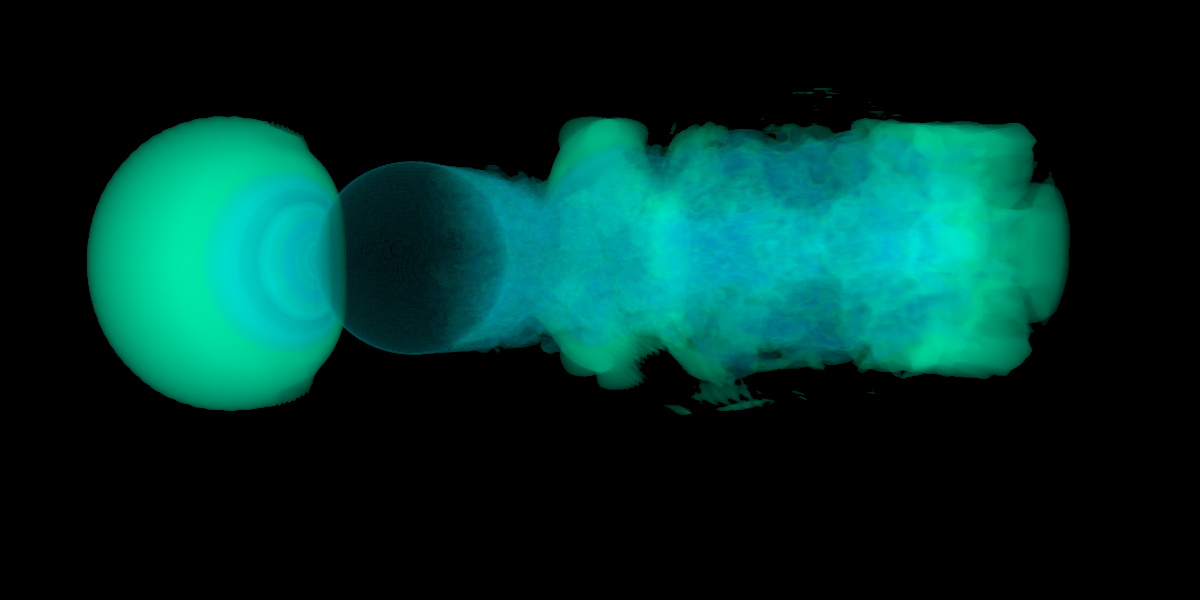
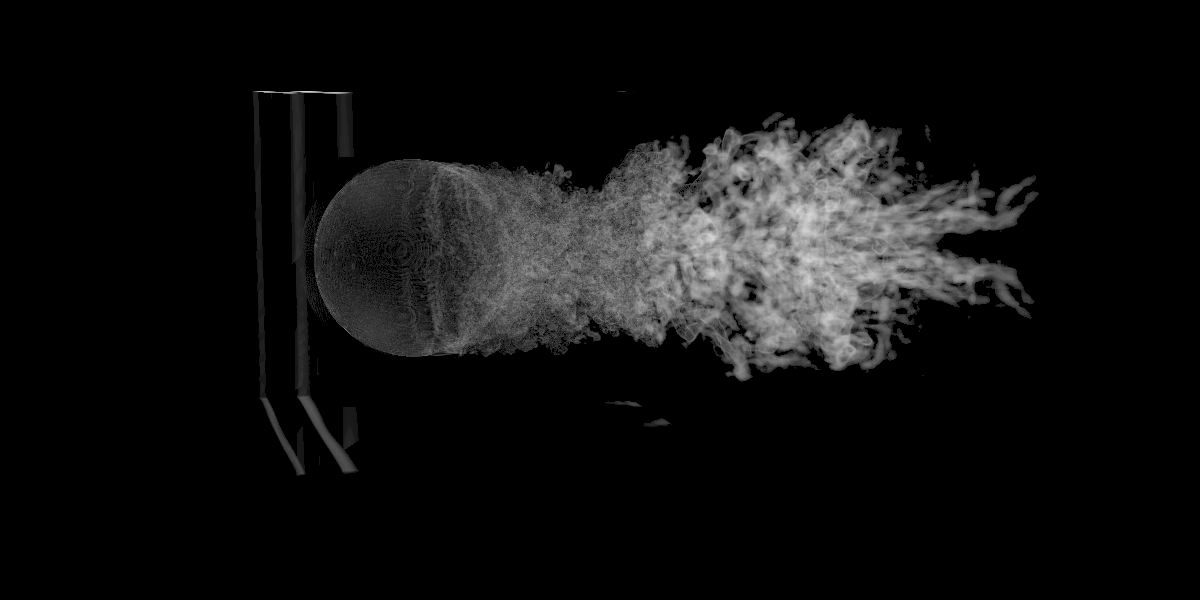
now it render turbulence

diff --git a/src/scene.cpp b/src/scene.cpp
@@ -1,4 +1,5 @@
 #include "scene.h"
+#include "utils.h"
 
 void Scene::setGrids(const std::vector<vdbGrid> &Grids) {
     grids = Grids;
@@ -60,7 +61,7 @@ int Scene::searchTree(const Vec3f pos) const {
 }
 
 template<typename T, typename GridType>
-float Scene::interpolation(const Vec3f &pos, T &res, std::vector<GridType> Grids) const {
+float Scene::interpolation(const Vec3f &pos, T &res, const std::vector<GridType> &Grids) const {
     std::vector<std::vector<Vec3i>> Corners;
     for (const auto &grid: Grids) {
         Vec3d local_pos = (grid->transform().worldToIndex(pos));
@@ -106,93 +107,112 @@ float Scene::interpolation(const Vec3f &pos, T &res, std::vector<GridType> Grids
 }
 
 float Scene::sampleOpacity(float value) {
-    float opacity = 0.5f * std::exp(-std::abs(value - 0.03f) * 100);
-    return opacity;
+//    float opacity = std::exp(-std::abs(value - 0.05f) * 100);
+//    return opacity;
+
+    float isoValue = 0.05f;
+    float margin = 0.035f;
+    if (value < isoValue + margin && value > isoValue - margin) {
+//        return 1 - std::abs(value - isoValue) / margin;
+        return std::exp(-std::abs(value - 0.05f) * 30);
+    } else {
+        return 0;
+    }
+//    else return 0.0f;
 }
 
 Vec3f Scene::sampleEmission(float value) {
-    Vec3f color = Vec3f{0, 0, 0};
-    if (value > 0.01 && value <= 0.005) {
-        color = Vec3f{
-                0,
-                1.0f * 0.5f * std::exp(-std::abs(value - 0.0025f) * 100),
-                0.33f * 0.5f * std::exp(-std::abs(value - 0.0025f) * 100)
-        };
-    } else if (value > 0.005 && value <= 0.01) {
-        color = Vec3f{
-                0,
-                0.5f * 0.5f * std::exp(-std::abs(value - 0.0075f) * 100),
-                0.66f * 0.5f * std::exp(-std::abs(value - 0.0075f) * 100)
-        };
-    } else if (value > 0.015 && value <= 0.02) {
-        color = Vec3f{
-                0,
-                1.0f * 0.5f * std::exp(-std::abs(value - 0.0175f) * 100),
-                1.0f * 0.5f * std::exp(-std::abs(value - 0.0175f) * 100)
-        };
-    } else if (value > 0.02 && value <= 0.025) {
-        color = Vec3f{
-                0,
-                0.5f * 0.5f * std::exp(-std::abs(value - 0.0225f) * 100),
-                0.33f * 0.5f * std::exp(-std::abs(value - 0.0225f) * 100)
-        };
-    } else if (value > 0.025 && value <= 0.03) {
-        color = Vec3f{
-                0,
-                1.0f * 0.5f * std::exp(-std::abs(value - 0.0275f) * 100),
-                0.66f * 0.5f * std::exp(-std::abs(value - 0.0275f) * 100)
-        };
-    } else if (value > 0.03 && value <= 0.035) {
-        color = Vec3f{
-                0,
-                0.5f * 0.5f * std::exp(-std::abs(value - 0.0325f) * 100),
-                1.0f * 0.5f * std::exp(-std::abs(value - 0.0325f) * 100)
-        };
-    } else if (value > 0.035 && value <= 0.04) {
-        color = Vec3f{
-                0,
-                0.33f * 0.5f * std::exp(-std::abs(value - 0.0375f) * 100),
-                1.0f * 0.5f * std::exp(-std::abs(value - 0.0375f) * 100)
-        };
-    } else if (value > 0.04 && value <= 0.045) {
-        color = Vec3f{
-                0,
-                0.66f * 0.5f * std::exp(-std::abs(value - 0.0425f) * 100),
-                0.5f * 0.5f * std::exp(-std::abs(value - 0.0425f) * 100)
-        };
-    } else if (value > 0.045 && value <= 0.05) {
-        color = Vec3f{
-                0,
-                1.0f * 0.5f * std::exp(-std::abs(value - 0.0475f) * 100),
-                1.0f * 0.5f * std::exp(-std::abs(value - 0.0475f) * 100)
-        };
-    } else if (value > 0.05 && value <= 0.055) {
-        color = Vec3f{
-                0,
-                0.33f * 0.5f * std::exp(-std::abs(value - 0.0525f) * 100),
-                0.5f * 0.5f * std::exp(-std::abs(value - 0.0525f) * 100)
-        };
-    } else if (value > 0.055 && value <= 0.06) {
-        color = Vec3f{
-                0,
-                0.66f * 0.5f * std::exp(-std::abs(value - 0.0575f) * 100),
-                1.0f * 0.5f * std::exp(-std::abs(value - 0.0575f) * 100)
-        };
-    } else if (value > 0.06 && value <= 0.065) {
-        color = Vec3f{
-                0,
-                1.0f * 0.5f * std::exp(-std::abs(value - 0.0625f) * 100),
-                0.5f * 0.5f * std::exp(-std::abs(value - 0.0625f) * 100)
-        };
-    }
-    return color;
+    float opacity = sampleOpacity(value);
+    return Vec3f{
+            std::exp(-(opacity - 1) * (opacity - 1) * 100),
+            0,
+            0
+    };
+//    Vec3f color = Vec3f{0, 0, 0};
+//    if (value > 0.001 && value <= 0.005) {
+//        color = Vec3f{
+//                0,
+//                1.0f * 0.5f * std::exp(-std::abs(value - 0.0025f) * 100),
+//                0.33f * 0.5f * std::exp(-std::abs(value - 0.0025f) * 100)
+//        };
+//    } else if (value > 0.005 && value <= 0.01) {
+//        color = Vec3f{
+//                0,
+//                0.5f * 0.5f * std::exp(-std::abs(value - 0.0075f) * 100),
+//                0.66f * 0.5f * std::exp(-std::abs(value - 0.0075f) * 100)
+//        };
+//    } else if (value > 0.015 && value <= 0.02) {
+//        color = Vec3f{
+//                0,
+//                1.0f * 0.5f * std::exp(-std::abs(value - 0.0175f) * 100),
+//                1.0f * 0.5f * std::exp(-std::abs(value - 0.0175f) * 100)
+//        };
+//    } else if (value > 0.02 && value <= 0.025) {
+//        color = Vec3f{
+//                0,
+//                0.5f * 0.5f * std::exp(-std::abs(value - 0.0225f) * 100),
+//                0.33f * 0.5f * std::exp(-std::abs(value - 0.0225f) * 100)
+//        };
+//    } else if (value > 0.025 && value <= 0.03) {
+//        color = Vec3f{
+//                0,
+//                1.0f * 0.5f * std::exp(-std::abs(value - 0.0275f) * 100),
+//                0.66f * 0.5f * std::exp(-std::abs(value - 0.0275f) * 100)
+//        };
+//    } else if (value > 0.03 && value <= 0.035) {
+//        color = Vec3f{
+//                0,
+//                0.5f * 0.5f * std::exp(-std::abs(value - 0.0325f) * 100),
+//                1.0f * 0.5f * std::exp(-std::abs(value - 0.0325f) * 100)
+//        };
+//    } else if (value > 0.035 && value <= 0.04) {
+//        color = Vec3f{
+//                0,
+//                0.33f * 0.5f * std::exp(-std::abs(value - 0.0375f) * 100),
+//                1.0f * 0.5f * std::exp(-std::abs(value - 0.0375f) * 100)
+//        };
+//    } else if (value > 0.04 && value <= 0.045) {
+//        color = Vec3f{
+//                0,
+//                0.66f * 0.5f * std::exp(-std::abs(value - 0.0425f) * 100),
+//                0.5f * 0.5f * std::exp(-std::abs(value - 0.0425f) * 100)
+//        };
+//    } else if (value > 0.045 && value <= 0.05) {
+//        color = Vec3f{
+//                0,
+//                1.0f * 0.5f * std::exp(-std::abs(value - 0.0475f) * 100),
+//                1.0f * 0.5f * std::exp(-std::abs(value - 0.0475f) * 100)
+//        };
+//    } else if (value > 0.05 && value <= 0.055) {
+//        color = Vec3f{
+//                0,
+//                0.33f * 0.5f * std::exp(-std::abs(value - 0.0525f) * 100),
+//                0.5f * 0.5f * std::exp(-std::abs(value - 0.0525f) * 100)
+//        };
+//    } else if (value > 0.055 && value <= 0.06) {
+//        color = Vec3f{
+//                0,
+//                0.66f * 0.5f * std::exp(-std::abs(value - 0.0575f) * 100),
+//                1.0f * 0.5f * std::exp(-std::abs(value - 0.0575f) * 100)
+//        };
+//    } else if (value > 0.06 && value <= 0.065) {
+//        color = Vec3f{
+//                0,
+//                1.0f * 0.5f * std::exp(-std::abs(value - 0.0625f) * 100),
+//                0.5f * 0.5f * std::exp(-std::abs(value - 0.0625f) * 100)
+//        };
+//    }
+//    return color;
 }
 
 std::tuple<Vec3f, float, float> Scene::getEmissionOpacity(Vec3f value) const {
     float emission_inter, opacity_inter;
-    interpolation(value, emission_inter, moduleGrids);
-    auto layer = interpolation(value, opacity_inter, QGrids);
-    return {sampleEmission(emission_inter), sampleOpacity(opacity_inter), layer};
+    auto layer = interpolation(value, emission_inter, moduleGrids);
+    layer = interpolation(value, opacity_inter, QGrids);
+    auto opacity = sampleOpacity(opacity_inter);
+    auto color = 2 * Vec3f(opacity);
+//    sampleEmission(emission_inter)
+    return {color, opacity, layer};
 }
 
 void Scene::setVectorGrids(const std::vector<Vec3fGrid::Ptr> &Grids) {
@@ -210,12 +230,25 @@ void Scene::genQGrids() {
         for (auto iter = grid->cbeginValueOn(); iter; ++iter) {
             float qValue = 0.0f;
             openvdb::Coord ijk = iter.getCoord();
-            openvdb::Coord low = ijk + openvdb::Coord{-1, -1, -1};
-            openvdb::Coord high = ijk + openvdb::Coord{1, 1, 1};
-            Vec3f grad = (vec_accessor.getValue(high) - vec_accessor.getValue(low)) / (2 * dx);
-            qValue = -0.5f * (grad.dot(grad)) - grad[0] * grad[1] - grad[0] * grad[2] - grad[1] * grad[2];
+            openvdb::Coord low_x = ijk + openvdb::Coord{-1, 0, 0}, low_y = ijk + openvdb::Coord{0, -1, 0},
+                    low_z = ijk + openvdb::Coord{0, 0, -1};
+            openvdb::Coord high_x = ijk + openvdb::Coord{1, 0, 0}, high_y = ijk + openvdb::Coord{0, 1, 0},
+                    high_z = ijk + openvdb::Coord{0, 0, 1};
+            Vec3f grad_x = (vec_accessor.getValue(high_x) - vec_accessor.getValue(low_x)) / (2 * dx);
+            Vec3f grad_y = (vec_accessor.getValue(high_y) - vec_accessor.getValue(low_y)) / (2 * dx);
+            Vec3f grad_z = (vec_accessor.getValue(high_z) - vec_accessor.getValue(low_z)) / (2 * dx);
+
+            qValue = -0.5f * (grad_x[0] * grad_x[0] + grad_y[1] * grad_y[1] + grad_z[2] * grad_z[2]) -
+                     grad_y[0] * grad_x[1] - grad_z[0] * grad_x[2] - grad_z[1] * grad_y[2];
+//            std::cout<<qValue<<std::endl;
             accessor.setValue(iter.getCoord(), qValue);
         }
         QGrids.push_back(qGrid);
     }
+//    for (const auto &grid: QGrids) {
+//        float m, mm;
+//        grid->evalMinMax(m, mm);
+//        std::cout << m << " " << mm << std::endl;
+//    }
+
 }

diff --git a/src/integrator.cpp b/src/integrator.cpp
@@ -31,23 +31,25 @@ void Integrator::render() const {
 }
 
 Vec3f Integrator::radiance(Ray &ray, float t0, float t1) const {
-    float step_size = scene->grids[0].dx;
+    float step_size = scene->grids[0].dx / 4;
     Vec3f src_color = Vec3f{0, 0, 0};
     float src_opacity = 0;
     auto dst_t = (float) fmax(t0 - step_size, ray.t0());
     Vec3f dst_pos, dst_color;
     float dst_opacity;
+    float dx;
     while (dst_t < t1 - step_size) {
         dst_t += step_size;
         dst_pos = ray(dst_t);
-        float dx;
         std::tie(dst_color, dst_opacity, dx) = scene->getEmissionOpacity(dst_pos);
-        // Adaptive step size
-        if (dx != 0) step_size = dx;
+        if (dx != 0) step_size = dx / 4;
+
         dst_color *= step_size;
         dst_opacity = 1 - std::pow(1 - dst_opacity, step_size);
+
         dst_color += (1 - dst_opacity) * src_color;
         dst_opacity += (1 - dst_opacity) * src_opacity;
+
         src_color = dst_color;
         src_opacity = dst_opacity;
     }

diff --git a/include/scene.h b/include/scene.h
@@ -19,7 +19,7 @@ public:
     void setGrids(const std::vector<vdbGrid> &Grids);
 
     template<typename T, typename GridType>
-    [[nodiscard]] float interpolation(const Vec3f &pos, T& res, std::vector<GridType> Grids) const;
+    [[nodiscard]] float interpolation(const Vec3f &pos, T& res, const std::vector<GridType> &Grids) const;
 
     static float sampleOpacity(float value) ;
 
